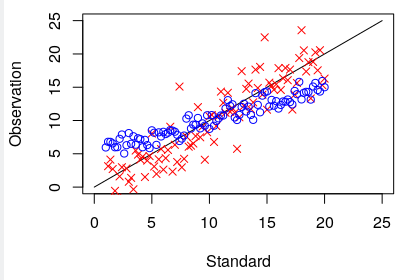
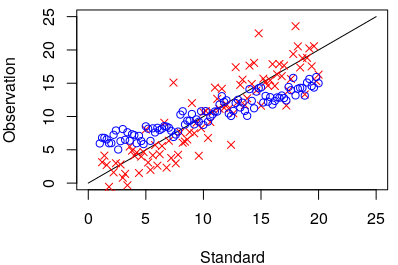
finish the statistics blog 000

diff --git a/source/blog/blog-statistics-000.html b/source/blog/blog-statistics-000.html
@@ -50,14 +50,73 @@
         
         <h3>Widely used R-square comparison</h3>
         <hr>
+        <p> I have read many papers about testing the gas exchange models and compaing them. The most seen method is to
+            compare the R-square of the models. If the R-square of one fitting is higher than the other, then the model
+            is better than the other. Such comaprison make sense if people are comparing two linear regression, as one
+            may argue that one fitting is more colose to its own linear regression. However, R-square makes no sense if
+            one is trying to make 1:1 comparisons. Use the below figure as an example, the blue dots have a higher
+            R-square linear regression than the red dots, but the red dots are more close to the 1:1 line. How should
+            we compare the fittings?</p>
+        <div align="center">
+            <img src="../../image/fittings.png", alt="Rain Forest">
+        </div>
+        <p> The R-square of the blue dots linear regression is obviously higher than that of the red dots, and the
+            slope of the red dots is obviously closer to 1. The two data sets have the same standard (comparison). How
+            should we do? It depends on what we want to compare.</p>
+            
         
         <h3>Yujie's comments</h3>
         <hr>
+        <p> If our aim is to compare how accurate can we make predictions, then we should compare the standardized
+            error. The algorithm is like:</p>
+        <div class="textcode">
+            <code>
+                sum_square = sum ( (y_obs-y_std)^2 )<br>
+                std_error = sqrt( sum_squre/n_obs )
+            </code>
+        </div>
+        <p> We can tell that if we just compare the data in the region [5,15], the blue dots performs much better than
+            the red dots. Otherwise, in the region (0,5) and (15:20), the red dots perform better than the blue dots.
+            Overall speaking, the red dots perform alight better than the blue dots. One may argue that if we extend
+            the red dots and blue dots to unknown region, the red dots would behave way better than the blue dots. I
+            can only say, it is possible because we don't know what the observations are like if you did not measure or
+            predict it. In a word, the comparison is only valid for such data sets and in such region, and we can not
+            make anay further statement out of the known data sets.</p>
+        <p> If our aim is to compare the relative accuracy rather than the absolute value, we must adjust our algorithm
+            otherwise we are in trouble. We may define the relative standardized error as:</p>
+        <div class="textcode">
+            <code>
+                sum_relative_square = sum( (y_obs/y_std-1)^2 )<br>
+                std_relative_error = sqrt( sum_relative_square/n_obs )
+            </code>
+        </div>
+        <p> The standardized error or relative standardized error can be used if one is comparing the models that fit
+            the same standard dataset. It would be a problem if one is comparing two different data sets. For example,
+            what if the standard error of two data sets are the same while one data set ranges from 0 to 25 and the
+            other data set ranges from 1 to 50?</p>
+        <p> We may argue that the relative standardized error of the second data set is lower so it would be a better
+            model. However, the relative standardized error is not what we care about, we care about the standardized
+            error. In this case, we have to consider the range of the data set or the standard deviation of the
+            standard data set. We can use the below algorithm:</p>
+        <div class="textcode">
+            <code>
+                sum_square = sum ( (y_obs-y_std)^2 )<br>
+                std_error = sqrt( sum_squre/n_obs )<br>
+                std_fitting = std_error / sd_obs
+            </code>
+        </div>
+        <p> Inputting the data set coverage as part of standard fitting comparison gives us a better view of how well
+            the model behave in different range. If the model bahaves well under the given range, we can not garantee
+            that the model is equally behaved out of the range, so we have to reduce our confidence no matter how
+            confident we are just because we don't have any proof.</p>
         <p> The quality of a model depends on the prediction power, i.e. the ability to make predictions close to
-            experimental observations. Thus, the quality depends on the following aspects:</p>
+            experimental observations. Thus, the quality depends on the following aspects, and readers should choose
+            the right standard for their data sets. Technically, I recommand use all of the three, i.e. the
+            std_fitting parameter I have defined above. The fitting quality standards are:</p>
         <ul>
             <li>the distance from the predicted means to experimental means;</li>
-            <li>the mean variation from the predictions to observations.    </li>
+            <li>the mean variation from the predictions to observations;    </li>
+            <li>the golden standard data range.                             </li>
         </ul>
     </article>
 

diff --git a/source/blog-latex.html b/source/blog-latex.html
@@ -42,7 +42,7 @@
             <li>                                                 R                   </li>
             <li>                                                 Raspberry Pi        </li>
             <li>                                                 Shell               </li>
-            <li><a                href="./blog-statistics.html"> Statistics          </li>
+            <li><a                href="./blog-statistics.html"> Statistics      </a></li>
             <br></br>
             <li><b> Hardware DIY     </b></li>
             <li>                                                 All                 </li>

diff --git a/source/blog-statistics.html b/source/blog-statistics.html
@@ -42,7 +42,7 @@
             <li>                                                 R                   </li>
             <li>                                                 Raspberry Pi        </li>
             <li>                                                 Shell               </li>
-            <li><a class="active" href="./blog-statistics.html"> Statistics          </li>
+            <li><a class="active" href="./blog-statistics.html"> Statistics      </a></li>
             <br></br>
             <li><b> Hardware DIY     </b></li>
             <li>                                                 All                 </li>

diff --git a/source/blog-template.html b/source/blog-template.html
@@ -42,7 +42,7 @@
             <li>                                                 R                   </li>
             <li>                                                 Raspberry Pi        </li>
             <li>                                                 Shell               </li>
-            <li><a                href="./blog-statistics.html"> Statistics          </li>
+            <li><a                href="./blog-statistics.html"> Statistics      </a></li>
             <br></br>
             <li><b> Hardware DIY     </b></li>
             <li>                                                 All                 </li>

diff --git a/source/blog.html b/source/blog.html
@@ -42,7 +42,7 @@
             <li>                                                 R                   </li>
             <li>                                                 Raspberry Pi        </li>
             <li>                                                 Shell               </li>
-            <li><a                href="./blog-statistics.html"> Statistics          </li>
+            <li><a                href="./blog-statistics.html"> Statistics      </a></li>
             <br></br>
             <li><b> Hardware DIY     </b></li>
             <li>                                                 All                 </li>
